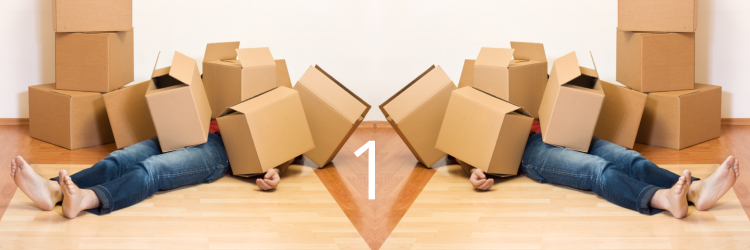
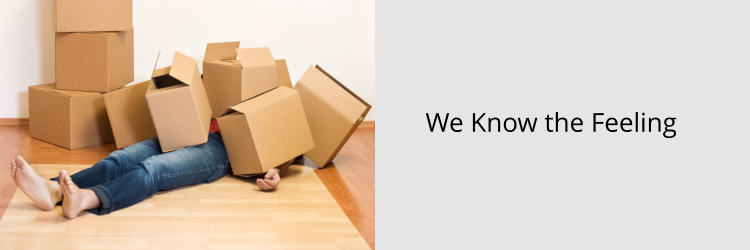
dynamic slider code added with modified timestamp to bust image cache

diff --git a/resources/views/layouts/partials/carousel.blade.php b/resources/views/layouts/partials/carousel.blade.php
@@ -11,19 +11,19 @@
             <li data-target="#myCarousel" data-slide-to="2"></li>
         </ol>
         <!-- Wrapper for carousel items -->
+        
         <div class="carousel-inner">
-            <div class="item active">
-                <img src="{{ asset('images/slides/slide1.png')}}" alt="First Slide">
+        @foreach($slides as $slide)
+       
+        
+        
+            <div class="item{{ $loop->first ? ' active': '' }}">
+                <img src="{{ asset('images/slides')}}/{{ $slide->getFilename()}}?{{$slide->getMTime()}}" alt="Slide_{{$loop->index}}">
 
             </div>
-            <div class="item">
-                <img src="{{ asset('images/slides/slide2.png')}}" alt="Second Slide">
 
-            </div>
-            <div class="item">
-                <img src="{{asset('images/slides/slide3.png')}}" alt="Third Slide">
-
-            </div>
+        @endforeach
+            
         </div>
         <!-- Carousel controls -->
         <!-- <a class="carousel-control left" href="#myCarousel" data-slide="prev">

diff --git a/app/Http/Controllers/PagesController.php b/app/Http/Controllers/PagesController.php
@@ -4,6 +4,7 @@ namespace App\Http\Controllers;
 
 use App\Page;
 use Illuminate\Http\Request;
+use Illuminate\Support\Facades\File;
 
 class PagesController extends Controller
 {
@@ -11,8 +12,13 @@ class PagesController extends Controller
     {
         $pagename = $request->segment(1);
         $page = Page::with('elements')->where('name', $pagename)->first();
+        
+        // Slider images
+        $dir = public_path('/images/slides');
+        $slides = File::files($dir);
+        //dd($slides);
 
-        return view("pages.{$pagename}", ['page' => $page]);
+        return view("pages.{$pagename}", ['page' => $page,'slides'=>$slides]);
 
     }
 }
